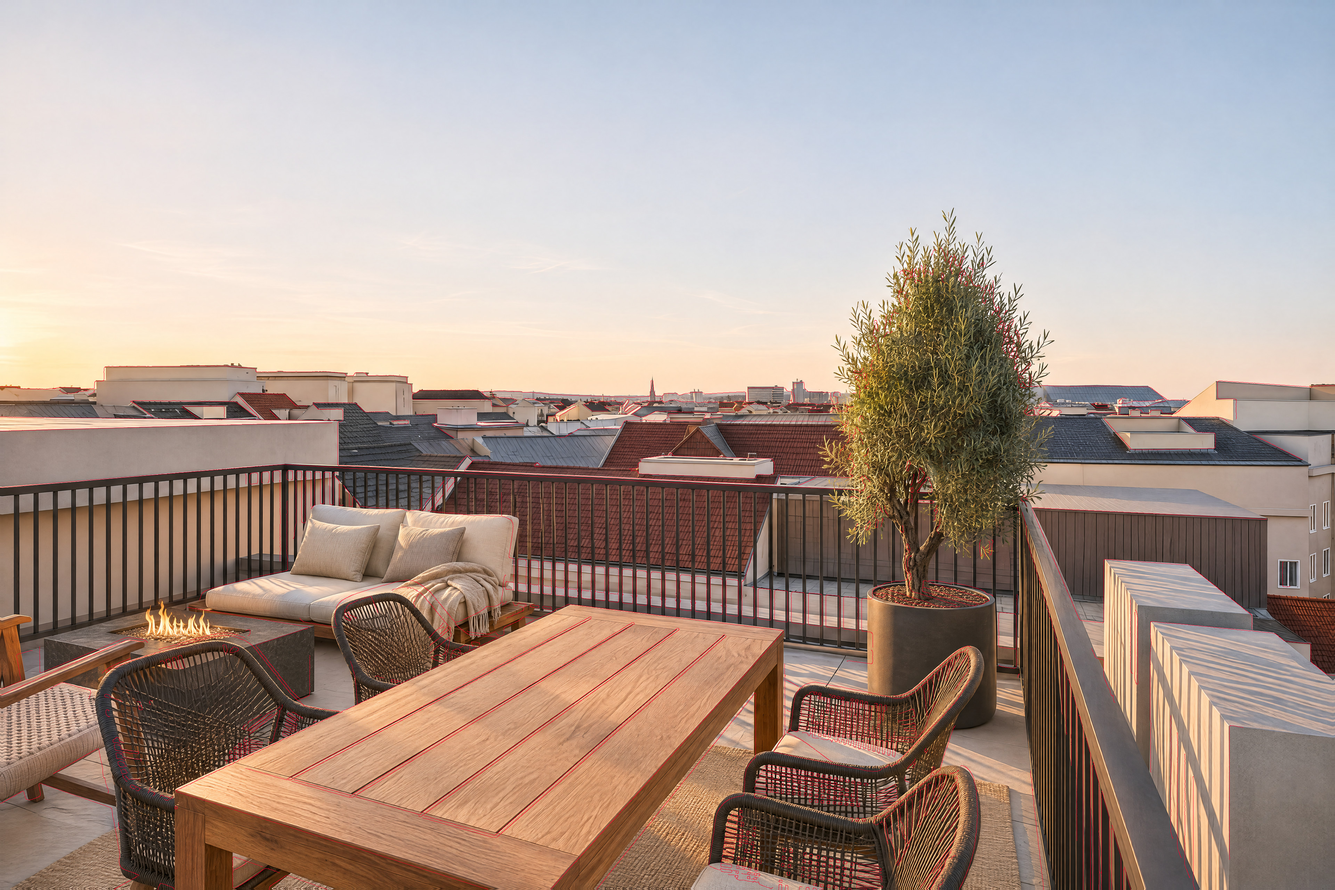
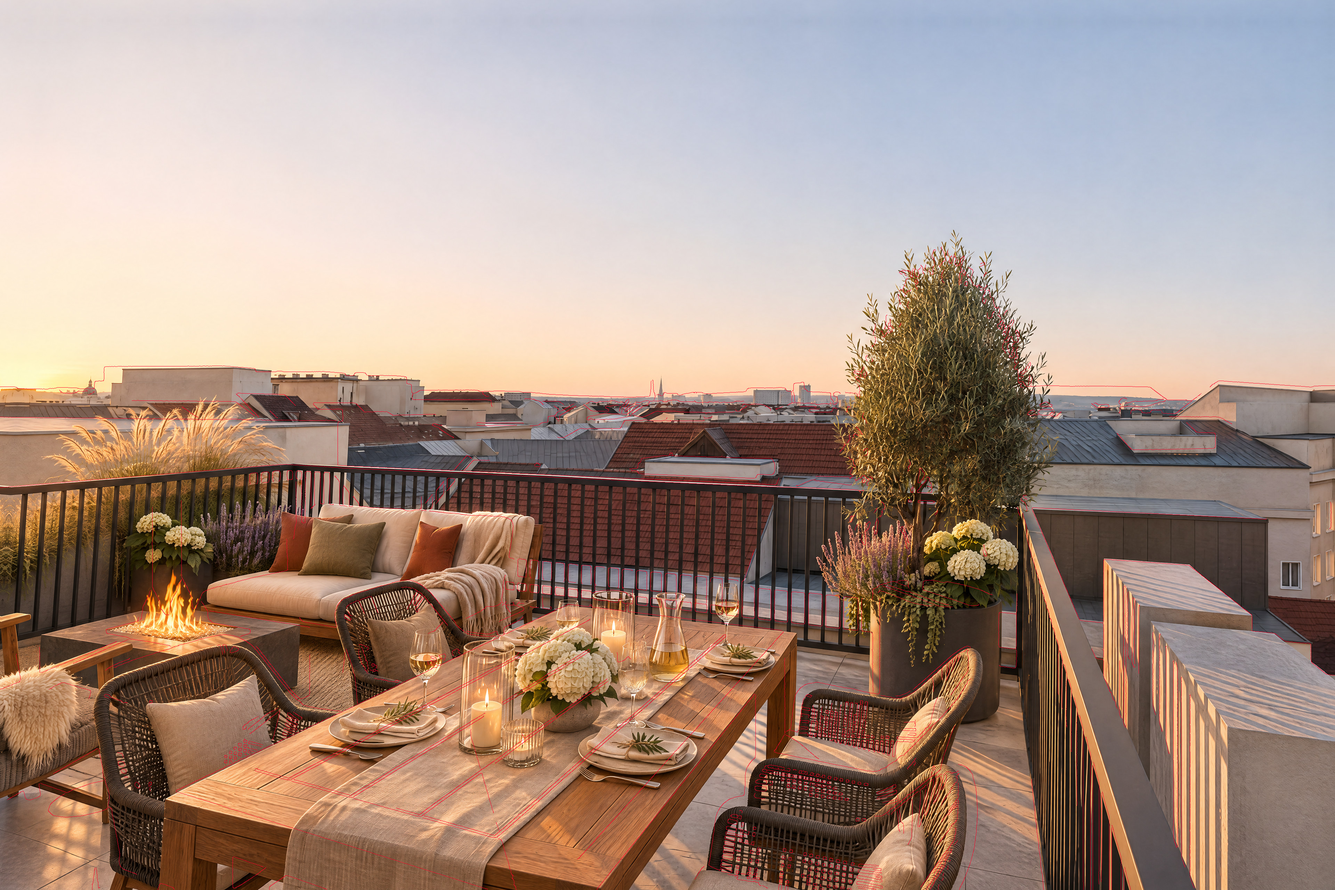
Noma Dachterrassen r11g veredelt (TrIIIple als Geometrie, Landmarken, High-End-Stimmung, Horizontsperre)
Claude-Session: https://claude.ai/code/session_01V2wbbcmw7EuGjxK21PawhQ

diff --git a/immoviz/qualitaet/2026-11-25_nachtschicht.md b/immoviz/qualitaet/2026-11-25_nachtschicht.md
@@ -25,7 +25,10 @@ nicht ohne Freigabe veredelt.
 - [~] N4 Nahbereich von oben (22:45): Orthofoto-Server der Stadt Wien ist aus der Cloud gesperrt (Proxy 403), Prüfung nur
   am Mac. Offen für den Mac: Farbe Brandwand 005362, heller glatter Baukörper links in `dachterrasse_23_hof` (Street View
   oder Orthofoto, Gauben, Dachterrassen, Kamine). Der Mac meldete Hof und Nachbarn deckungsgleich mit dem Orthofoto (r11d).
-- [ ] N5 r11g veredeln, sobald `r11g_dach` und `r11g_innen` da sind (16 Bilder), prüfen, liefern.
+- [~] N5 r11g Dach veredelt und geliefert (23:20): 5 Bilder mit Stimmungs-Prompts; die drei Stadtblicke zweimal, weil die KI
+  im ersten Durchgang Türme, Gasometer und Fernsehturm in den Horizont erfand (Auslöser: Landmarken-Liste im Prompt; neu:
+  Horizontsperre je Blickrichtung). 8 x 3,25 = 26. Lehre: im Prompt nie Landmarken aufzählen, die nicht in dieser Kamera
+  liegen. Innen folgt nach dem Mac.
 
 ### Wimmergasse 20
 - [x] W1 Stand (22:30): Runde 10b geliefert (6 Außenbilder, 19,5 Credits), Innenräume warten auf Pläne.
